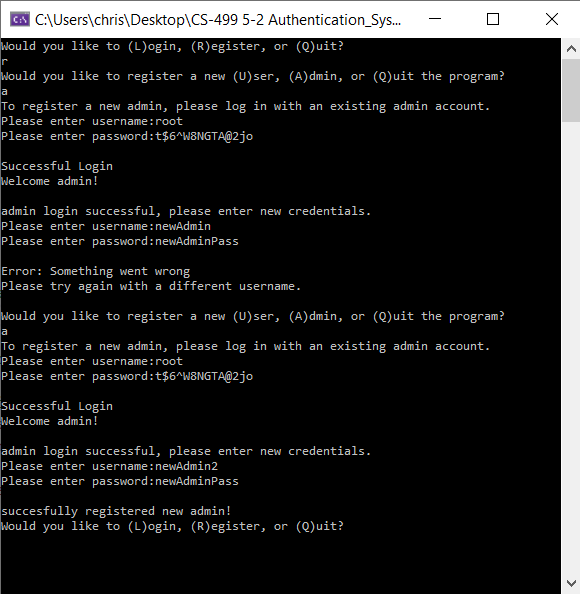
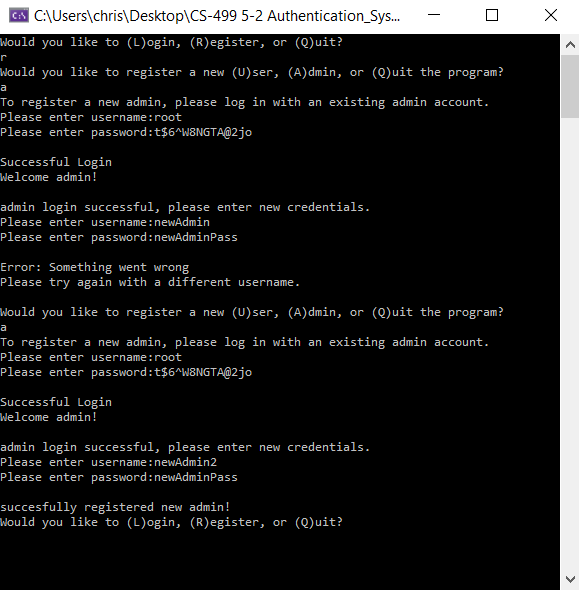
Updated page with content and edited some pictures

diff --git a/index.md b/index.md
@@ -6,9 +6,19 @@ More information can be found in the code review below.
 
 ## Self Assesment
 
-Lorem ipsum dolor sit amet, consectetur adipiscing elit, sed do eiusmod tempor incididunt ut labore et dolore magna aliqua. Ut enim ad minim veniam, quis nostrud exercitation ullamco laboris nisi ut aliquip ex ea commodo consequat. Duis aute irure d
-### olor in
-reprehenderit in voluptate velit esse cillum dolore eu fugiat nulla pariatur. Excepteur sint occaecat cupidatat non proident, sunt in culpa qui officia deserunt mollit anim id est laborum.
+### Program Reflection
+Hello, world!
+My name is Christopher George, and this is my e-portfolio for the SNHU computer science capstone, CS-499. Over the course of the SNHU computer science program, I have learned more about and have become more accomplished at developing software than I could have imagined at the start of this academic adventure. One of the areas I have improved the most is collaborating on team projects using version control software such as Git, GitHub, and Bitbucket. Collaboration skills were essential during the class CS-310, Collaboration and Team Projects. During this class, the students collaborated on a jukebox application that would list the songs in a playlist that each student created. I also gained experience reviewing other students' committed code and approving commits. It's hard to believe that at one point, I didn't use git for projects and that now it is an indispensable part of my workflow. 
+
+Another skill I learned that will come in handy on the business side of things was how to communicate with clients and an Agile team. During the class CS-250 Software Development Cycle, I was able to refine my communication skills by assuming the various roles of an Agile team, which included the role of the product owner. The product owner was an exciting role to take on because they facilitate communication with the team and the stakeholders and represent the best interest of the stakeholders or client. This role posed an exciting challenge because the product owner acts almost as a negotiator for the stakeholders, and so has to understand what the stakeholder's best interest is and try and determine what is realistic for the team to do.
+
+Another essential skill that I learned during this program was problem-solving with fundamental concepts, such as data structure and algorithms. This skill was beneficial for the class CS-260 Algorithms and Data Structures. In this class, I used several robust data structures, such as linked lists, binary trees, and hash tables. I was also able to implement the sorting algorithms quick sort and selection sort. This implementation was not the easiest but working in C++ for the first time was a new and exciting challenge.
+
+Out of all the skills I learned, though, the one area I seemed to excel at the most was in full-stack development. I demonstrated this skill in multiple classes, including CS-465 Full Stack Development I, CS-470 Full Stack Development II, CS-340 Client Server Development, IT-270 Web Site Design, and a few other classes. I learned everything from front-end design to back-end server management to creating and connecting REST APIs during these classes. In the class CS-470 Full Stack Development II, I was even able to create a full-stack application of the cloud using AWS. To do this, I used several AWS services, including lambda, S3, and EC2. Through these classes, I demonstrated my ability with software engineering, along with the creation and use of databases. During this class, security was explicitly addressed. In it, I learned about creating policies and roles for AWS using their IAM service. To set roles and policies for specific services, I used a JSON file with the proper permissions as content.
+
+### Project Introduction
+
+For this portfolio, I chose one project to demonstrate my software design and engineering abilities, algorithms and data structures, and databases. As such, I decided to enhance a project from the class IT-145 Found in App Development. The initial project was the creation of a zoo authentication system created in Java. This authentication system was a simple project that would allow a user to type in a username and password that would then log the user in. This project was perfect for this portfolio because of its opportunity for improvement. Some of its flaws include major security holes (see code review below), the lack of a method for registering a new user, the storage of credentials in a text file, and its insecure MD5 password hashing algorithm. By fixing these flaws and adding to the project's complexity further, I can demonstrate my capabilities in several computer science facets in addition to the ones listed above, including secure coding and the use of well-founded programming techniques.
 
 
 ## Code Review
@@ -17,40 +27,48 @@ The first step to enhancing this project was performing a code review.
 
 
 [![Watch the video](https://img.youtube.com/vi/2QkOakAuvMk/maxresdefault.jpg)](https://youtu.be/2QkOakAuvMk)
-<a id="raw-url" href="https://media.githubusercontent.com/media/flywheel11/flywheel11.github.io/master/Zoo Authentication System Code Review.mp4">Download Video</a>
+<a id="raw-url" href="https://github.com/flywheel11/flywheel11.github.io/raw/master/Zoo%20Authentication%20System%20Code%20Review.mp4">Download Video</a>
 
 ## Artifact Narritive
 
 ##### Name: Zoo Authentication System <br />
 ##### Assignment: 7-1 Final Project <br />
 ##### Origin: IT-145 <br />
-This artifact will be used for all three categories of the final project. This project was initially created as an authentication system for a zoo for the final project for IT-145 in 2018. It was written in Java and would allow the user to log in to an account stored on a credentials file as plain text. The system would hash the password given by the user using MD5 and compare that hash to the hash stored on the credentials file associated with a username. The system would then authenticate the user and display a data file with data related to the user's account type (zookeeper, admin, or veterinarian), or the system would reject the login attempt up to three times and finally quit the program after a third failed attempt.
+This project was initially created as an authentication system for a zoo for the final project for IT-145 in 2018. It was written in Java and would allow the user to log in to an account stored on a credentials file as plain text. The system would hash the password given by the user using MD5 and compare that hash to the hash stored on the credentials file associated with a username. The system would then authenticate the user and display a data file with data related to the user's account type (zookeeper, admin, or veterinarian), or the system would reject the login attempt up to three times and finally quit the program after a third failed attempt.
  
 ### Artifact Inclusion
-I chose this artifact because of its potential to showcase my skills and because it seemed like an exciting and challenging project. When creating an authentication system, it is essential that the code is written with security best practices in mind, and coding within those constraints seemed to make for an excellent showcase for the skills I have developed over these four years. Ever since that original project, it always bothered me that I had left it unfinished, and being able to revisit the project and refine it seemed too good to pass up. 
- 
+I created this project as an authentication system for a zoo for the final project for IT-145 in 2018. It was written in Java and would allow the user to log in to an account stored on a credentials file as plain text. The system would hash the password given by the user using MD5 and compare that hash to the hash stored on the credentials file associated with a username. The system would then authenticate the user and display a data file with data related to the user's account type (zookeeper, admin, or veterinarian), or the system would reject the login attempt up to three times and finally quit the program after a third failed attempt.
+
  
 ##### Software Design and Engineering
-I was able to enhance this project in several ways within this category. First, the original project was written in Java, but porting it over to C++ would simplify its integration into C++ projects. As such, I transferred the project into C++. Next, I expanded the project's complexity by adding a registration screen that can register new admins and users. In the new system, users can register a new account with a new username and password combination as long as the same username does not currently exist in the database. If a new admin wishes to register, the system requires that an existing admin login. Finally, I improved the software by patching several security holes. For example, a return statement in the user class existed that would return all stored credentials to anywhere in the program. In addition to this, the file that contains the main class has been streamlined and no longer handles any credentials, and variables that store any passwords are immediately cleared from memory after they are no longer needed. 
+I was able to enhance this project in several ways within this category. First, I transferred the project into C++; the original project was written in Java, but porting it over to C++ would simplify its integration into C++ projects. Next, I expanded the project's complexity by adding a registration screen to register new admins and users. The implementation of this can be seen below.
+![Register User](/pictures/newUser Register.png)
+In the new system, users can register a new account with a unique username and password combination as long as the same username does not currently exist in the database. If a new admin wishes to register, the system requires an existing admin login, as can be seen below.
+![Register Admin](/pictures/newAdmin2 Succesful Registration.png)
+The error seen in the example above was caused by a user being added to the existing database.
+Finally, I improved the software by patching several security holes. For example, a return statement in the user class existed that would return all stored credentials to anywhere in the program. In addition to this, the file that contains the main class has been streamlined and no longer handles any credentials, and variables that store any passwords are immediately cleared from memory after they are no longer needed. 
+
  
 ##### Algorithms and Data Structures
-For this category, I was able to enhance the complexity and the security of the project. Previously, the zoo authentication system stored passwords hashed with the MD5 digest algorithm and would compare the old hash to a new hash of a password the user supplies when logging in. This algorithm is considered does not hold up to modern cryptographic standards, and so I replaced it with the industry-standard SHA-256 hashing algorithm. I also employed algorithmic password salting, which enhances the security of password hashes by adding randomness to passwords to ensure that no two users have the same password hash. This improvement prevents two kinds of attacks. It prevents a rainbow table attack in which a hacker has a table of known password hashes, and it protects user passwords in the event of an unauthorized database entry.
+For this category, I was able to enhance the complexity and the security of the project. Previously, the zoo authentication system stored passwords hashed with the MD5 digest algorithm and would compare the old hash to a new hash of a password the user supplies when logging in. This algorithm is considered obsolete and does not hold up to modern cryptographic standards, so I replaced it with the industry-standard SHA-256 hashing algorithm. I also employed algorithmic password salting, which enhances the security of password hashes by adding randomness to passwords to ensure that no two users have the same password hash. This improvement prevents two kinds of attacks. It prevents a rainbow table attack in which a hacker has a table of known password hashes, and it protects user passwords in the event of an unauthorized database entry.
  
 ##### Databases
-For this section, I enhanced the artifact by essentially turning it into a full-stack application. I created an interface between C++ and MongoDB which allows for the creation and reading of stored account credentials. This interface allows for the reading of previously created accounts to log in and the creation of new entries so that new users can register an account with a new username, account type, password hash, and password salt. This completed program basically amounts to a full-stack application where the MongoDB database acts as a back-end, the C++ program acts as a mid-level, and the console acts as the front-end. This system would be ideal for authenticating users within an office or campus with a central MongoDB server.
+For this section, I enhanced the artifact by essentially turning it into a full-stack application. I created an interface between C++ and MongoDB which allows for the creation and reading of stored account credentials. This interface allows for the reading of previously created accounts to log in and the creation of new entries so that new users can register an account with a new username, account type, password hash, and password salt. This completed program basically amounts to a full-stack application where the MongoDB database acts as a back-end, the C++ program serves as a mid-level, and the console acts as the front-end. This system would be ideal for authenticating users within an office or campus with a central MongoDB server. I also created a MongoDB database that holds user credentials and account information, such as account type (user or admin). The database design and schema can be seen in the following diagram;
+![Database Diagram](/pictures/DB diagram.png)
  
  
 ### Objectives
-All the planned functional enhancements for all three categories have been implemented. All that remains is the refining of the program and the addition of supplemental documentation, including a readme file, additional comments, a library dependencies list, and additional installation instructions.
- 
+
 ##### Design and Engineering
-All the planned enhancements for this section have been implemented. The original program was rewritten in C++ from Java. The program was also written as a general authentication system rather than an authentication system specific to a zoo. A registration screen was also added, allowing users to register an admin account or a user account. As described, to register an admin account, a current admin must log in first. 
+The original program was rewritten in C++ from Java. The program was also written as a general authentication system rather than an authentication system specific to a zoo. A registration screen was also added, allowing users to register an admin account or a user account. As described, to register an admin account, a current admin must log in first. 
 
 ##### Algorithms and Data structures
-All the planned enhancements for this section have been implemented. First, the original MD5 password hashing algorithm was replaced with the industry-standard SHA-256 hashing algorithm. Next, password salting was implemented to obscure the password hashes. These passwords salts are stored with the password hashes in the database. Finally, the ability to interact with information from the database was added, allowing the program to create new documents and read existing documents. This feature allows the user to log in as an existing user and register new accounts.
+First, the original MD5 password hashing algorithm was replaced with the industry-standard SHA-256 hashing algorithm. Next, password salting was implemented to obscure the password hashes. These password salts are stored with the password hashes in the database. Finally, the ability to interact with information from the database was added, allowing the program to create new documents and read existing documents. This feature enables the user to log in as an existing user and register new accounts.
            
 ##### Databases
-All the planned enhancements for this section have been implemented. MongoDB database was created to store account credentials. This database was run on a Docker image and can connect to the program on port localhost:27017. The ability to write and read from the database was also implemented. Each account document consists of an id, username, account type, password hash, and password salt, all of which can be read and written to by the program.
+A MongoDB database was created to store account credentials. This database was run on a Docker image and can connect to the program on port localhost:27017. The ability to write and read from the database was also implemented. Each account document consists of an id, username, account type, password hash, and password salt, all of which can be read and written to by the program. A test entry to the database can be seen below.
+![User in database](/pictures/newUser UserDatabase.png)
+
  
 ### Process Reflection
 ##### Design and Engineering
@@ -63,3 +81,13 @@ I also ran into few problems when implementing the features from this section in
 ##### Databases
 This section was challenging to implement the planned features. One of the main issues I ran up against was setting up the API between visual C++ and MongoDB. MongoDB created an official API, but the setup had been quite tricky. There are were lots of little pieces to set up, and each one was running into issues. For example, the MongoDB C++ Driver required the Libmongoc library to be installed on my system, but I kept running into issues. The main problem was a lack of available documentation. Without solid documentation, getting the libraries set up turned into an arduous process. Other than that, though, actually writing the interface between MongoDB and C++ was reasonably straightforward. I was able to set up the database with Docker and exposed it to port 27017. I then connected to it with a URL and was able to interact with it from my program.
 
+## Links
+Here are some links to the project and some other files.
+
+Original artifact: <a id="raw-url" href="https://github.com/flywheel11/flywheel11.github.io/tree/master/IT-145_%20ZooAthenticationSystem_Original_Project">Link</a><br>
+Enhanced Artifact: <a id="raw-url" href="https://github.com/flywheel11/flywheel11.github.io/tree/master/CS-499%20Final%20Authentication_System%20Enhanced%20Project">Link</a><br>
+MongoDB Database tar with test data: <a id="raw-url" href="https://github.com/flywheel11/flywheel11.github.io/tree/master/Docker%20images">Link</a><br>
+Additional Pictures of the enhanced project: <a id="raw-url" href="https://github.com/flywheel11/flywheel11.github.io/tree/master/Pictures">Link</a><br>
+You Tube code review: <a id="raw-url" href="https://www.youtube.com/watch?v=2QkOakAuvMk">Link</a><br>
+Code review download: <a id="raw-url" href="https://github.com/flywheel11/flywheel11.github.io/raw/master/Zoo%20Authentication%20System%20Code%20Review.mp4">Link</a><br>
+Link to this e-portfolio: <a id="raw-url" href="https://flywheel11.github.io/">Link</a><br>
